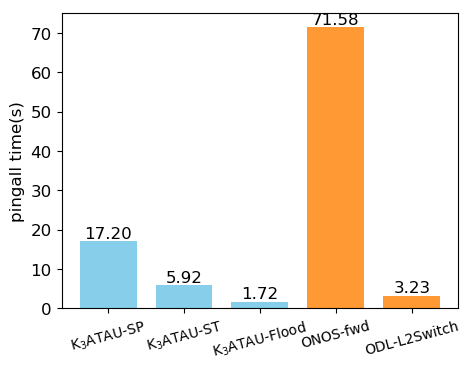
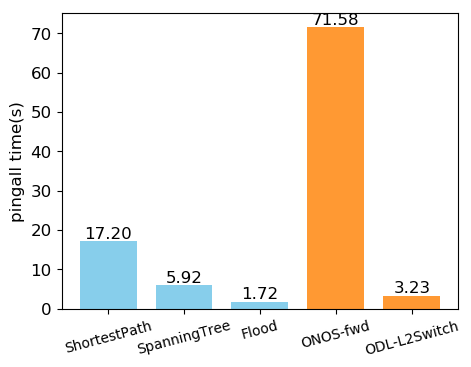
mmp

diff --git a/mininet/plot/eval.py b/mininet/plot/eval.py
@@ -33,7 +33,7 @@ data = [[0.695, 0.502, 0.253,   0.945, 0.144],
         [17.202,5.916, 1.72, 71.578,3.234],
         [0.234,0.185,  0.12,  0.376,0.130],
         [2.495,1.686,  0.387, 4.23,0.685]]
-la =[systemname+'-SP',systemname+'-ST',systemname+'-Flood','ONOS-fwd','ODL-L2Switch']
+la =['ShortestPath','SpanningTree','Flood','ONOS-fwd','ODL-L2Switch']
 
 color = [themecolor1,themecolor1,themecolor1,themecolor3,themecolor3]
 

diff --git a/mininet/README.md b/mininet/README.md
@@ -19,17 +19,17 @@
 
 其中
 
-* SP : 使用最短路径的应用,生成的流表会匹配端口，源和目的地址
-* ST : 以目的端口为根节点，计算最小生成树，生成的流表匹配端口和目的地址
+* ShortestPath : 使用最短路径的应用,生成的流表会匹配端口，源和目的地址
+* SpanningTree : 以目的端口为根节点，计算最小生成树，生成的流表匹配端口和目的地址
 * Flood : 以一个固定端口为根，且计算过程中保持一定的顺序，对整个拓扑计算一个固定的最小生成树，生成的流表只匹配端口
-* ONOS : ONOS-fwd应用
-* ODL : ODL l2switch应用
+* ONOS-fwd : ONOS-fwd应用
+* ODL-l2switch : ODL l2switch应用
 
 可以得到的结论有，
 
-* 可以用不同的算法实现L2Switch的应用, 效率上也不相同
-* 和ONOS相比，响应速度都快于ONOS
-* 和ODL相比，因为ODL-l2switch网络内部链路使用广播方式，和Flood应用相比，Flood应用的响应速度也更快
+* 在本系统下，可以用不同的算法实现二层交换, 效率上也不相同
+* 和ONOS相比，响应速度都快于ONOS的Intent system
+* 因为ODL-l2switch网络内部链路使用广播方式，和Flood应用相比，Flood应用的响应速度也更快
 
 # test2
 
@@ -46,9 +46,8 @@ link down:
 
 ![result](./plot/figs/test2_2.png)
 
-测试时，在link down的情况下ONOS无法恢复
 
-可以得到的结论有，
+可以得到的结论，
 
 * 系统可以快速恢复
 
